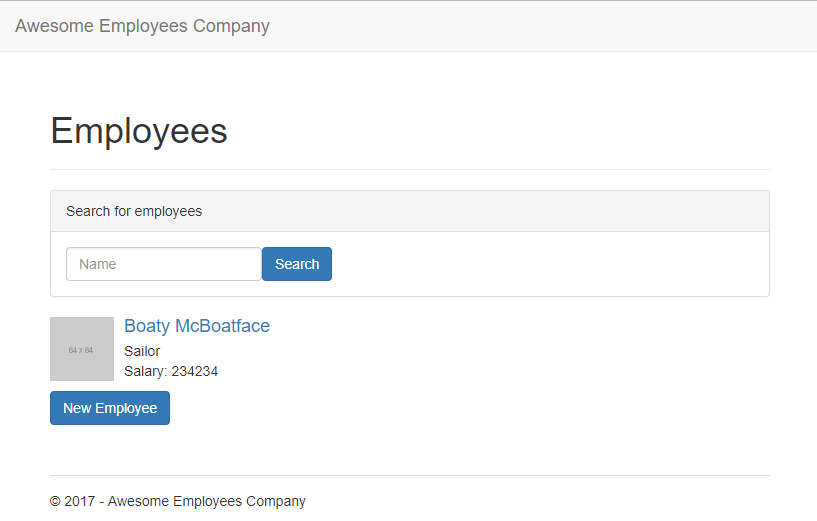
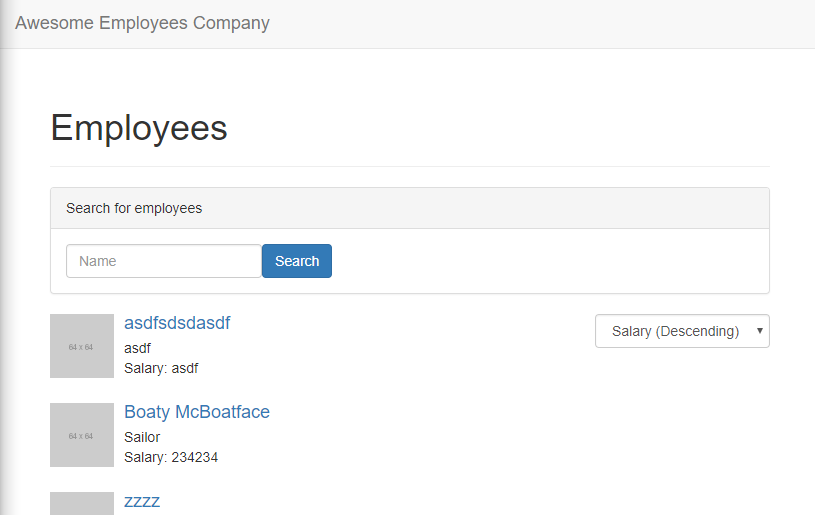
add sorting

diff --git a/pages/index.js b/pages/index.js
@@ -15,10 +15,10 @@ class SearchPage extends React.Component {
       loading: false,
       empty: false,
       query: '',
+      order: 'name',
       employees: this.props.employees
     };
     this.handleChange = this.handleChange.bind(this);
-    this.handleSelect = this.handleSelect.bind(this);
     this.handleSubmit = this.handleSubmit.bind(this);
     this.queryEmployees = this.queryEmployees.bind(this);
     this.getEmployeeThumbnail = this.getEmployeeThumbnail.bind(this);
@@ -32,20 +32,19 @@ class SearchPage extends React.Component {
     let obj = {};
     obj[event.target.name] = event.target.value;
     this.setState(obj);
-  }
-  handleSelect(page) {
-    this.setState({page: page}, this.queryEmployees);
+    if (event.target.name == 'order') this.queryEmployees()
   }
   handleSubmit(event) {
     event.stopPropagation();
     event.preventDefault();
-    this.setState({page: 1}, this.queryEmployees);
+    this.queryEmployees();
   }
   queryEmployees() {
     this.setState({loading: true}, () => {
       axios.get('/api/employees', {
         params: {
-          name: this.state.query
+          name: this.state.query,
+          order: this.state.order
         }
       })
       .then((response) => {
@@ -106,7 +105,7 @@ class SearchPage extends React.Component {
 
    
     return (
-      <div className='container'>
+      <div>
         { list }
         <Link href={'/employees?id=new'} as={'/employees/new'}><a className="btn btn-primary">New Employee</a></Link>
       </div>
@@ -137,7 +136,15 @@ class SearchPage extends React.Component {
             </div>
           </div>
         </div>
-        { this.renderResultsList() }
+        <div className='container'>
+          <select className="form-control sort-order" name="order" onChange={this.handleChange}>
+            <option value="name_asc">Name (Ascending)</option>
+            <option value="name_desc">Name (Descending)</option>
+            <option value="salary_asc">Salary (Ascending)</option>
+            <option value="salary_desc">Salary (Descending)</option>
+          </select>
+          { this.renderResultsList() }
+        </div>
       </Layout>
     );
   }

diff --git a/server/api/index.js b/server/api/index.js
@@ -7,16 +7,25 @@ const db = new sqlite3.Database('db.sqlite')
 db.run('CREATE TABLE IF NOT EXISTS employees (id INTEGER PRIMARY KEY ASC, name STRING, address STRING, phone STRING, job STRING, salary INTEGER)')
 
 router.get('/employees', (req, res) => {
-  console.log(req.query)
+  let order = 'LOWER(name) ASC'
+  if (req.query.order == 'name_desc') {
+    order = 'LOWER(name) DESC'
+  } 
+  else if (req.query.order == 'salary_asc') {
+    order = 'salary ASC'
+  }
+  else if (req.query.order == 'salary_desc') {
+    order = 'salary DESC'
+  }
   if (req.query.name) {
-    db.all("SELECT * FROM employees WHERE name like ?", '%' + req.query.name + '%', (err, rows) => {
+    db.all("SELECT * FROM employees WHERE name like ? ORDER BY " + order, '%' + req.query.name + '%', (err, rows) => {
       res.json({
         employees: rows
       })
     })
   }
   else {
-    db.all('SELECT * FROM employees', (err, rows) => {
+    db.all('SELECT * FROM employees ORDER BY ' + order, (err, rows) => {
       res.json({
         employees: rows
       })

diff --git a/static/styles.css b/static/styles.css
@@ -1,11 +1,13 @@
 body {
   padding-top: 70px;
 }
-.table .btn-link {
-  padding: 0px 12px;
+.container {
+  position: relative;
 }
-.panel-footer .pagination {
-  margin: 0;
+.sort-order {
+  right: 15px;
+  width: auto;
+  position: absolute;
 }
 .footer {
   padding: 15px 0;
